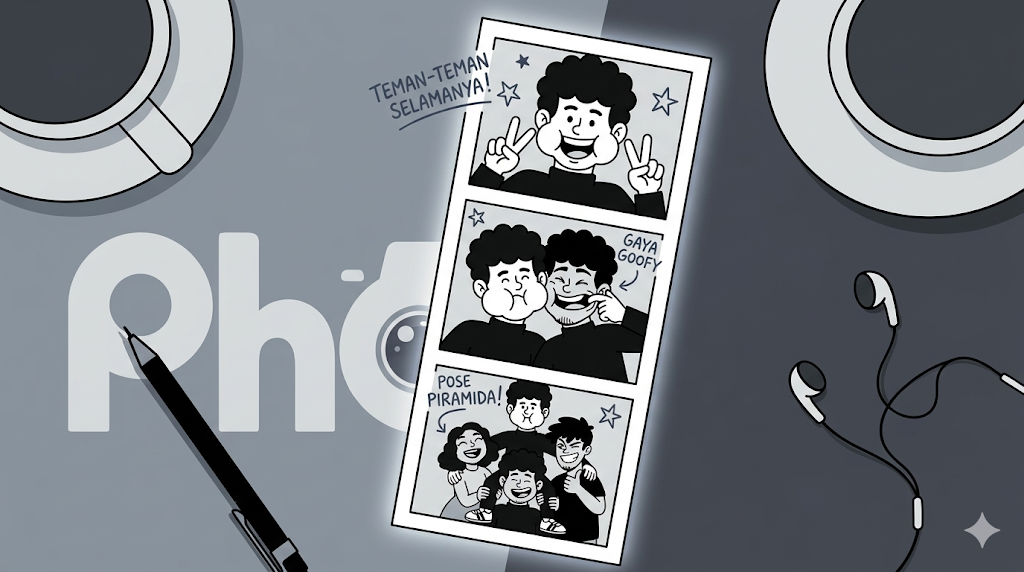
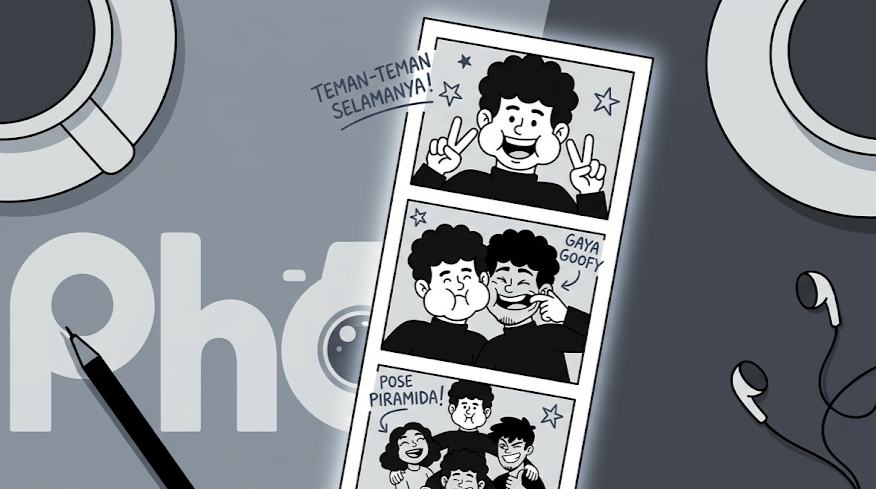
fix: align closing page with Figma design

diff --git a/src/app/globals.css b/src/app/globals.css
@@ -123,20 +123,20 @@ button {
 .landing-brand {
   align-items: center;
   display: flex;
-  height: 210px;
+  height: 250px;
   justify-content: center;
-  left: 145px;
+  left: 95px;
   overflow: hidden;
   position: absolute;
-  top: 88px;
-  width: 460px;
+  top: 45px;
+  width: 560px;
 }
 
 .landing-brand__image {
   display: block;
   height: auto;
-  max-height: 210px;
-  max-width: 460px;
+  max-height: 250px;
+  max-width: 560px;
   object-fit: contain;
   object-position: center;
   width: auto;
@@ -856,7 +856,7 @@ button {
   padding: 7px 20px;
 }
 
-.payment-summary{position:absolute;top:350px;width:100%;text-align:center;font-size:25px}.operator-confirm{position:absolute;right:25px;bottom:20px;font-size:17px;opacity:.65}.shot-counter{position:absolute;left:36px;top:22px;z-index:20;background:var(--purple);border-radius:20px;padding:7px 18px;font-size:26px}.preview-heading{position:absolute;left:45px;top:18px;font-size:42px;font-weight:400}.strip-photo.is-selected,.sticker-choice.is-selected{outline:5px solid #fff;outline-offset:-3px}.result-actions{position:absolute;left:35px;right:35px;bottom:18px;display:flex;justify-content:center;gap:8px;flex-wrap:wrap}.result-actions a,.result-actions button{font-size:16px;padding:8px 12px}.result-actions button:disabled{opacity:.45}.result-actions .add-print{background:var(--orange)}.result-message{position:absolute;right:18px;top:18px;font-family:var(--sans-font);font-size:12px}.closing-qr-column{position:absolute;left:28px;top:22px;width:175px;display:flex;flex-direction:column;gap:7px}.closing-qr-column>div{display:flex;align-items:center;gap:10px;font-size:21px}.closing-qr-column .qr-image{width:66px;height:66px}.closing-art{position:absolute;left:235px;top:55px;width:245px;height:320px;border-radius:36px;background:var(--orange);display:grid;place-items:center;transform:rotate(-3deg)}.photo-strip-placeholder{width:125px;height:260px;background:#fff;color:var(--main-bg);display:grid;place-items:center;font-family:var(--sans-font);font-size:12px}.closing-title{position:absolute;right:22px;top:145px;width:230px;font-size:80px;font-weight:400;line-height:.75;text-align:center}.closing-home{position:absolute;right:75px;bottom:40px;width:130px}
+.payment-summary{position:absolute;top:98px;width:100%;text-align:center;font-size:25px;line-height:1}.operator-confirm{position:absolute;right:25px;bottom:20px;font-size:17px;opacity:.65}.shot-counter{position:absolute;left:36px;top:22px;z-index:20;background:var(--purple);border-radius:20px;padding:7px 18px;font-size:26px}.preview-heading{position:absolute;left:45px;top:18px;font-size:42px;font-weight:400}.strip-photo.is-selected,.sticker-choice.is-selected{outline:5px solid #fff;outline-offset:-3px}.result-actions{position:absolute;left:35px;right:35px;bottom:18px;display:flex;justify-content:center;gap:8px;flex-wrap:wrap}.result-actions a,.result-actions button{font-size:16px;padding:8px 12px}.result-actions button:disabled{opacity:.45}.result-actions .add-print{background:var(--orange)}.result-message{position:absolute;right:18px;top:18px;font-family:var(--sans-font);font-size:12px}.closing-qr-column{position:absolute;left:28px;top:22px;width:175px;display:flex;flex-direction:column;gap:7px}.closing-qr-column>div{display:flex;align-items:center;gap:10px;font-size:21px}.closing-qr-column .qr-image{width:66px;height:66px}.closing-art{position:absolute;left:235px;top:55px;width:245px;height:320px;border-radius:36px;background:var(--orange);display:grid;place-items:center;transform:rotate(-3deg)}.photo-strip-placeholder{width:125px;height:260px;background:#fff;color:var(--main-bg);display:grid;place-items:center;font-family:var(--sans-font);font-size:12px}.closing-title{position:absolute;right:22px;top:145px;width:230px;font-size:80px;font-weight:400;line-height:.75;text-align:center}.closing-home{position:absolute;right:75px;bottom:40px;width:130px}
 /* Real frame template thumbnails and layered preview */
 .frame-choice { background:#fff; display:flex; flex-direction:column; gap:4px; overflow:hidden; padding:5px; }
 .frame-choice__image { display:block; height:196px; object-fit:contain; width:100%; }
@@ -901,4 +901,78 @@ button {
   width: 110px;
 }
 
-.closing-illustration { position: absolute; right: 3%; bottom: 8%; width: min(48%, 520px); max-height: 72%; object-fit: contain; }
+.closing-screen {
+  background: #2f3434;
+  inset: 0;
+  overflow: hidden;
+  position: absolute;
+}
+
+.closing-illustration {
+  display: block;
+  height: auto;
+  left: -58px;
+  max-width: none;
+  object-fit: contain;
+  position: absolute;
+  top: -42px;
+  width: 800px;
+  z-index: 1;
+}
+
+.closing-qr-column {
+  display: flex;
+  flex-direction: column;
+  gap: 49px;
+  left: 27px;
+  position: absolute;
+  top: 21px;
+  width: 260px;
+  z-index: 2;
+}
+
+.closing-qr-row {
+  align-items: center;
+  display: grid;
+  gap: 18px;
+  grid-template-columns: 92px 1fr;
+  height: 92px;
+}
+
+.closing-qr-row .qr-image {
+  display: block;
+  height: 92px;
+  object-fit: contain;
+  width: 92px;
+}
+
+.closing-qr-row span {
+  color: var(--white);
+  font-size: 25px;
+  font-weight: 700;
+  line-height: 0.82;
+  text-align: left;
+}
+
+.closing-title {
+  color: var(--white);
+  font-size: 45px;
+  font-weight: 400;
+  left: 510px;
+  line-height: 0.8;
+  position: absolute;
+  text-align: left;
+  top: 385px;
+  white-space: nowrap;
+  width: auto;
+  z-index: 3;
+}
+
+.closing-home {
+  bottom: 70px;
+  min-width: 100px;
+  position: absolute;
+  right: 24px;
+  width: auto;
+  z-index: 3;
+}

diff --git a/src/app/closing/page.tsx b/src/app/closing/page.tsx
@@ -16,28 +16,30 @@ export default function Closing() {
   }, [resetSession, router]);
 
   const links: [string, string | undefined][] = [
-    ["Feedback", process.env.NEXT_PUBLIC_FEEDBACK_URL],
-    ["Frame Request", process.env.NEXT_PUBLIC_FRAME_REQUEST_URL],
-    ["Event Registration", process.env.NEXT_PUBLIC_EVENT_REGISTRATION_URL],
+    ["FEEDBACK", process.env.NEXT_PUBLIC_FEEDBACK_URL],
+    ["FRAME REQUEST", process.env.NEXT_PUBLIC_FRAME_REQUEST_URL],
+    ["EVENT REGISTRATION", process.env.NEXT_PUBLIC_EVENT_REGISTRATION_URL],
   ];
 
   return (
     <KioskStage>
-      <OptionalAsset
-        src="/assets/figma/illustrations/closing.png"
-        alt=""
-        className="closing-illustration"
-      />
-      <div className="closing-qr-column">
-        {links.map(([label, url]) => (
-          <div key={label}>
-            <ResultQrCode value={url || `https://phobo.local/${label.toLowerCase().replaceAll(" ", "-")}`} />
-            <span>{label}</span>
-          </div>
-        ))}
+      <div className="closing-screen">
+        <OptionalAsset
+          src="/assets/figma/illustrations/closing.png"
+          alt=""
+          className="closing-illustration"
+        />
+        <div className="closing-qr-column">
+          {links.map(([label, url]) => (
+            <div className="closing-qr-row" key={label}>
+              <ResultQrCode value={url || `https://phobo.local/${label.toLowerCase().replaceAll(" ", "-")}`} />
+              <span>{label}</span>
+            </div>
+          ))}
+        </div>
+        <h1 className="closing-title">SEE U LATER</h1>
+        <button className="closing-home" onClick={() => { resetSession(); router.push("/"); }}>HOME</button>
       </div>
-      <h1 className="closing-title">SEE U LATER</h1>
-      <button className="closing-home" onClick={() => { resetSession(); router.push("/"); }}>HOME</button>
     </KioskStage>
   );
 }

diff --git a/src/components/kiosk.tsx b/src/components/kiosk.tsx
@@ -331,7 +331,7 @@ export function LandingBrand() {
         width={2381}
         height={1501}
         priority
-        sizes="460px"
+        sizes="560px"
         className="landing-brand__image"
       />
     </div>